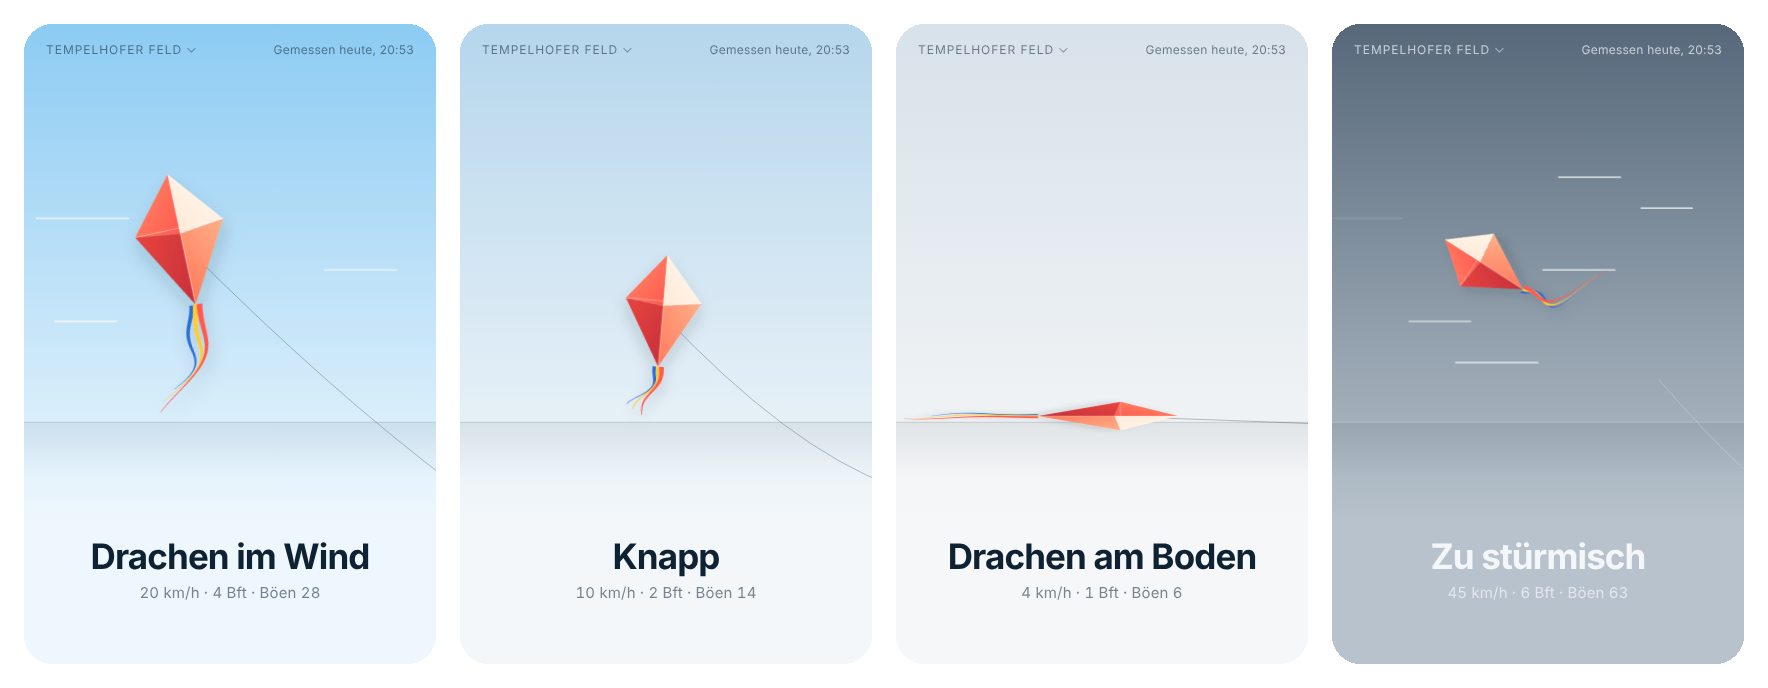
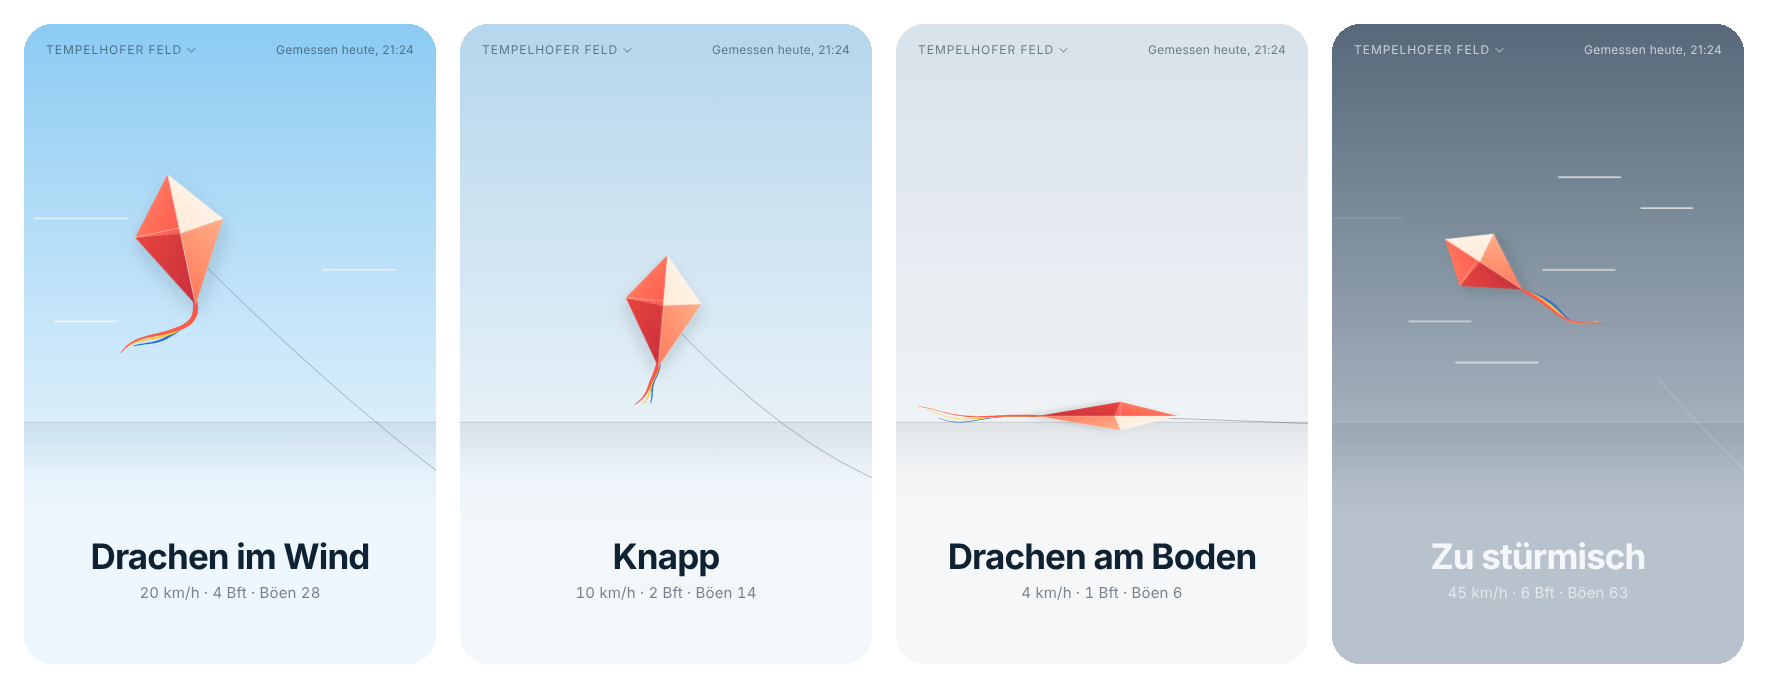
Schweif weht hinter dem Drachen
Die Bänder hingen starr unter dem Drachen und setzten mit einer Lücke an
– das wirkte unecht. Jetzt wachsen sie aus der Spitze, folgen erst der
Drachenachse und wehen dann je nach Wind nach hinten: flatternd im Wind,
schlaff bei knappem Wind, im Gras liegend bei Flaute, peitschend im
Sturm. Vorschaubilder angepasst.

Claude-Session: https://claude.ai/code/session_01Qn92bpJvWLDopGQQfoGXan

diff --git a/index.html b/index.html
@@ -95,10 +95,12 @@
     <rect x="-2000" y="268" width="4400" height="52" fill="url(#ground)"/>
     <line x1="-2000" y1="268" x2="2400" y2="268" stroke="var(--line)" stroke-width="1"/>
     <path id="string" fill="none" stroke="var(--ink)" stroke-opacity=".35" stroke-width=".8"/>
-    <g id="kite" filter="url(#soft)">
+    <g id="tails">
       <path id="tail3" fill="#2b6fd6"/>
       <path id="tail2" fill="#ffcc33"/>
       <path id="tail1" fill="#ff5a4e"/>
+    </g>
+    <g id="kite" filter="url(#soft)">
       <polygon points="0,-62 46,-6 0,0"   fill="url(#gB)"/>
       <polygon points="0,-62 -46,-6 0,0"  fill="url(#gA)"/>
       <polygon points="-46,-6 0,74 0,0"   fill="url(#gC)"/>
@@ -142,25 +144,35 @@ const hhmm = d => d.toLocaleTimeString('de-DE', {hour:'2-digit', minute:'2-digit
 
 // ---- Szene ----
 // Jeder Zustand: Position, Größe, Neigung, Bewegung des Drachens und des Schweifs
+// Schweif: Richtung (tx, ty) im Bild, Länge, Wellenhöhe, Tempo, Durchhängen – er weht mit dem Wind nach hinten
 const POSE = {
-  fly:     { x:150, y:78,  s:.95,  r:-16, bob:7,  sway:4,  amp:16, spd:3.2, drift:-46, len:100, streaks:3 },
-  maybe:   { x:196, y:150, s:.8,   r:-6,  bob:5,  sway:11, amp:9,  spd:1.6, drift:-22, len:60, streaks:0 },
-  storm:   { x:250, y:160, s:.8,   r:0,   bob:0,  sway:0,  amp:26, spd:7,   drift:60,  len:90,  streaks:6, spin:true, broken:true },
-  calm:    { x:212, y:262, s:1,    r:90,  bob:0,  sway:0,  amp:7,  spd:0,   drift:0,   len:130, streaks:0, ground:true },
-  unknown: { x:212, y:262, s:1,    r:90,  bob:0,  sway:0,  amp:7,  spd:0,   drift:0,   len:130, streaks:0, ground:true }
+  fly:     { x:150, y:78,  s:.95, r:-16, bob:7,  sway:4,  streaks:3, tx:-.96, ty:.28, len:105, amp:9,  spd:5,   droop:14 },
+  maybe:   { x:196, y:150, s:.8,  r:-6,  bob:5,  sway:11, streaks:0, tx:-.45, ty:.89, len:62,  amp:5,  spd:1.8, droop:4 },
+  storm:   { x:250, y:160, s:.8,  r:0,   bob:0,  sway:0,  streaks:6, tx:.88,  ty:.47, len:140, amp:18, bend:.12, spd:9,   droop:0, spin:true, broken:true },
+  calm:    { x:212, y:262, s:1,   r:90,  bob:0,  sway:0,  streaks:0, tx:-1,   ty:0,   len:125, amp:16,  spd:0,   droop:0, ground:true },
+  unknown: { x:212, y:262, s:1,   r:90,  bob:0,  sway:0,  streaks:0, tx:-1,   ty:0,   len:125, amp:16,  spd:0,   droop:0, ground:true }
 };
 let pose = POSE.unknown, state = 'unknown', t0 = performance.now();
 const reduce = matchMedia('(prefers-reduced-motion: reduce)').matches;
 const $ = id => document.getElementById(id);
 
-function ribbon(len, amp, phase, drift, w0, shift) {
-  const N = 28, L = [], R = [];
+// Ein Schweifband im Bild: verlässt den Drachen in Verlängerung seiner Mittelachse (ax, ay)
+// und biegt dann in einem Bogen in die Windrichtung (tx, ty); wird zum Ende hin schmaler
+function ribbon(sx, sy, ax, ay, p, sc, len, phase, w0, off, flat) {
+  const N = 36, L = [], R = [], step = sc * len / N;
+  let x = sx, y = sy;
   for (let i = 0; i <= N; i++) {
     const t = i / N;
-    const y = 74 + t * len;
-    const x = shift + drift * t * t + amp * t * Math.sin(phase - t * 5.5);
-    const w = w0 * (1 - t) + .4;
-    L.push(`${(x - w).toFixed(1)},${y.toFixed(1)}`); R.unshift(`${(x + w).toFixed(1)},${y.toFixed(1)}`);
+    const k = Math.min(1, t / (p.bend || .4)), m = k * k * (3 - 2 * k); // weicher Übergang Achse → Wind
+    let dx = ax + (p.tx - ax) * m, dy = ay + (p.ty - ay) * m + p.droop * t / 40;
+    const d = Math.hypot(dx, dy) || 1; dx /= d; dy /= d;
+    const nx = -dy, ny = dx * (flat ? .45 : 1);                       // quer zur Laufrichtung
+    const wave = off * t + p.amp * t * t * Math.sin(phase - t * 6);   // gebündelt an der Spitze, dann auffächernd
+    const cx = x + nx * wave * sc, cy = y + ny * wave * sc;
+    const w = sc * (w0 * Math.min(1, .35 + t * 5) * (1 - t) + .45) * (flat ? .8 : 1);
+    L.push(`${(cx - nx * w).toFixed(1)},${(cy - ny * w).toFixed(1)}`);
+    R.unshift(`${(cx + nx * w).toFixed(1)},${(cy + ny * w).toFixed(1)}`);
+    x += dx * step; y += dy * step;
   }
   return 'M' + L.join(' L') + ' L' + R.join(' L') + 'Z';
 }
@@ -178,11 +190,17 @@ function frame(now) {
   const sy = p.ground ? .3 : 1;   // am Boden: flach in Perspektive
   $('kite').setAttribute('transform', `translate(${x.toFixed(1)} ${y.toFixed(1)}) scale(${sc.toFixed(3)} ${(sc * sy).toFixed(3)}) rotate(${rot.toFixed(1)})`);
   $('kite').setAttribute('opacity', op.toFixed(2));
-  const ph = t * p.spd;
-  // drei Schweifbänder wie beim echten Drachen: Rot, Gelb, Blau
-  $('tail1').setAttribute('d', ribbon(p.len, p.amp, ph, p.drift, 2.6, 4));
-  $('tail2').setAttribute('d', ribbon(p.len * .9, p.amp * 1.1, ph + .9, p.drift * .95, 2.4, 0));
-  $('tail3').setAttribute('d', ribbon(p.len * .8, p.amp * 1.2, ph + 1.8, p.drift * .9, 2.2, -4));
+  // drei Schweifbänder wie beim echten Drachen (Rot, Gelb, Blau), befestigt an der unteren Spitze
+  const ar = rot * Math.PI / 180;
+  // Ansatz etwas innerhalb der Spitze – die Bänder liegen hinter dem Drachen, die Verbindung bleibt unsichtbar
+  const tipX = x + sc * (-66 * Math.sin(ar)), tipY = y + sc * sy * (66 * Math.cos(ar));
+  const ph = p.ground ? 1.2 : t * p.spd;
+  let axX = -Math.sin(ar), axY = Math.cos(ar) * sy;                     // Richtung der Drachenachse an der Spitze
+  const al = Math.hypot(axX, axY) || 1; axX /= al; axY /= al;
+  $('tail1').setAttribute('d', ribbon(tipX, tipY, axX, axY, p, sc, p.len, ph, 2.4, 5, p.ground));
+  $('tail2').setAttribute('d', ribbon(tipX, tipY, axX, axY, p, sc, p.len * .92, ph + .8, 2.3, 0, p.ground));
+  $('tail3').setAttribute('d', ribbon(tipX, tipY, axX, axY, p, sc, p.len * .84, ph + 1.6, 2.2, -5, p.ground));
+  $('tails').setAttribute('opacity', op.toFixed(2));
   if (p.broken) {               // nur das lose Leinenende flattert am Rand
     const fx = 330 + Math.sin(t * 6) * 14, fy = 236 + Math.cos(t * 5) * 10;
     $('string').setAttribute('d', `M420 330 Q ${(372 + Math.sin(t * 4) * 12).toFixed(1)} ${(300 + Math.cos(t * 6) * 8).toFixed(1)} ${fx.toFixed(1)} ${fy.toFixed(1)}`);
